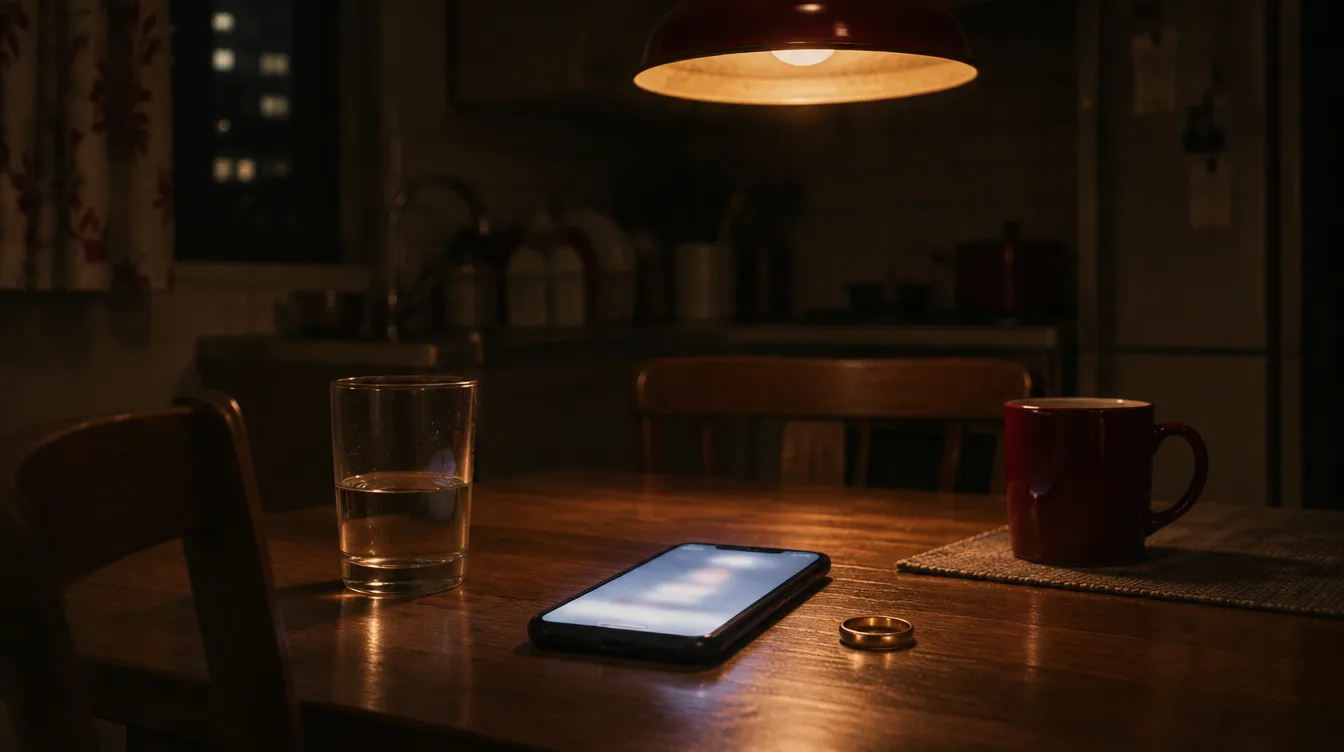
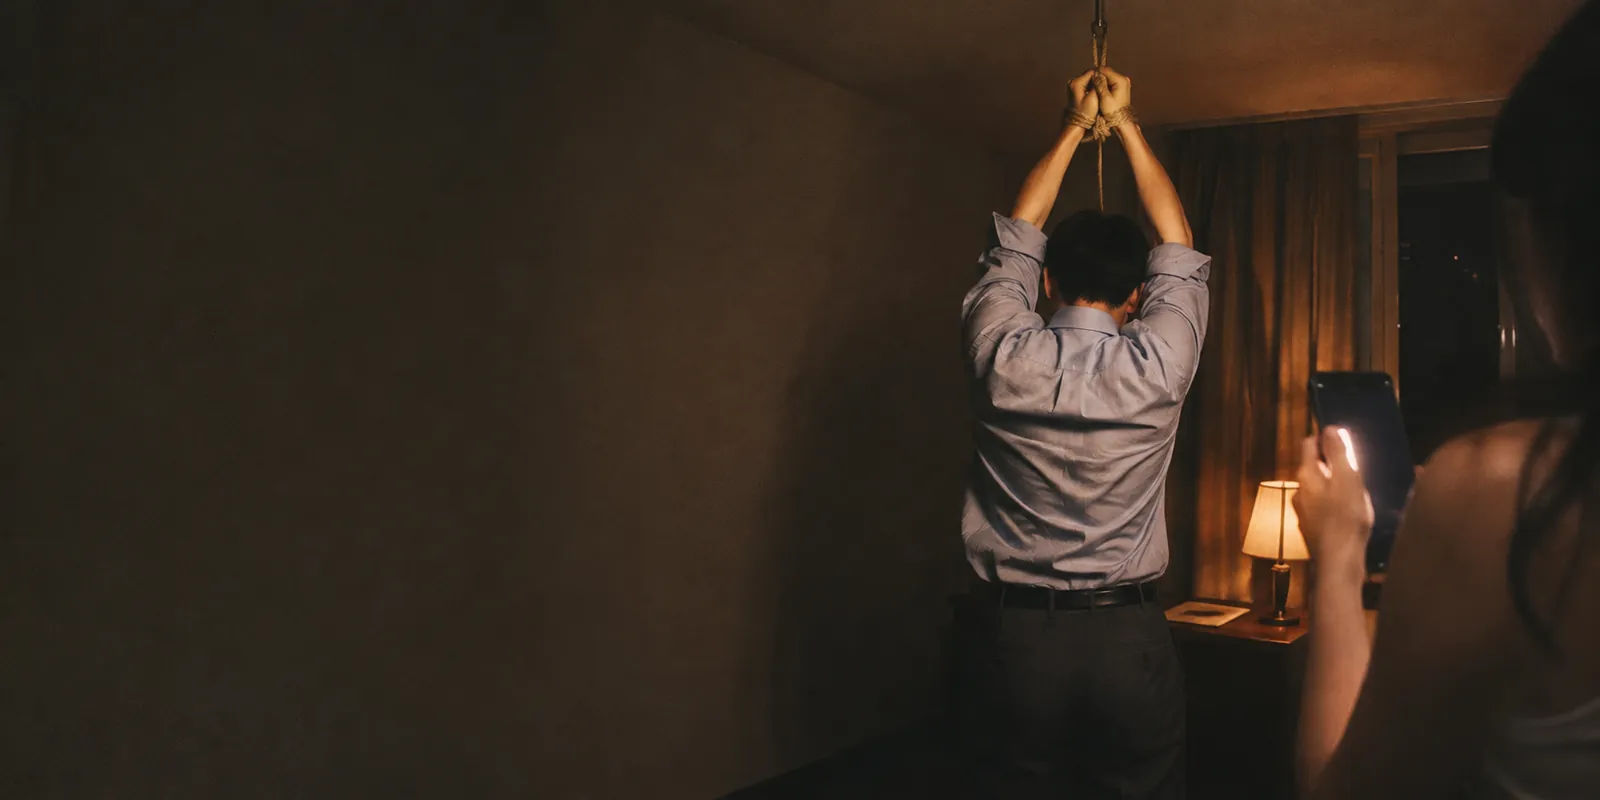
마지막 사용자 이미지 반영: 가로 키아트·공유 미리보기, 창밖 아침, 사망·탈출·냉랭한 결말 그림
Claude-Session: https://claude.ai/code/session_01NhCrPAAx57r2gVvWtmkJiC

diff --git a/web/index.html b/web/index.html
@@ -274,7 +274,7 @@
   @media (prefers-reduced-motion: reduce) { *, *::before, *::after { animation: none !important; transition: none !important; } }
 </style>
 <script type="importmap">
-{ "imports": { "three": "./lib/three/build/three.module.js", "three/addons/": "./lib/three/examples/jsm/", "./js/version.js": "./js/version.js?v=20261113-2224", "./js/rig.js": "./js/rig.js?v=20261113-2224", "./js/lipsync.js": "./js/lipsync.js?v=20261113-2224", "./js/husband.js": "./js/husband.js?v=20261113-2224", "./js/arms.js": "./js/arms.js?v=20261113-2224", "./js/room.js": "./js/room.js?v=20261113-2224", "./js/props.js": "./js/props.js?v=20261113-2224", "./js/audio.js": "./js/audio.js?v=20261113-2224", "./js/i18n.js": "./js/i18n.js?v=20261113-2224", "./js/game.js": "./js/game.js?v=20261113-2224", "./js/clips.js": "./js/clips.js?v=20261113-2224", "./js/main.js": "./js/main.js?v=20261113-2224" } }
+{ "imports": { "three": "./lib/three/build/three.module.js", "three/addons/": "./lib/three/examples/jsm/", "./js/version.js": "./js/version.js?v=20261113-2334", "./js/rig.js": "./js/rig.js?v=20261113-2334", "./js/lipsync.js": "./js/lipsync.js?v=20261113-2334", "./js/husband.js": "./js/husband.js?v=20261113-2334", "./js/arms.js": "./js/arms.js?v=20261113-2334", "./js/room.js": "./js/room.js?v=20261113-2334", "./js/props.js": "./js/props.js?v=20261113-2334", "./js/audio.js": "./js/audio.js?v=20261113-2334", "./js/i18n.js": "./js/i18n.js?v=20261113-2334", "./js/game.js": "./js/game.js?v=20261113-2334", "./js/clips.js": "./js/clips.js?v=20261113-2334", "./js/main.js": "./js/main.js?v=20261113-2334" } }
 </script>
 </head>
 <body>
@@ -313,6 +313,6 @@
   <div class="go"><button id="go" disabled>…</button><button id="resume" hidden></button></div>
   <p class="fiction" data-t="fiction"></p>
 </div></div>
-<script type="module" src="./js/main.js?v=20261113-2224"></script>
+<script type="module" src="./js/main.js?v=20261113-2334"></script>
 </body>
 </html>

diff --git a/web/js/room.js b/web/js/room.js
@@ -77,7 +77,7 @@ export function makeRoom(scene) {
   win.position.set(-1.05, 1.45, cz - D / 2 + 0.01); R.group.add(win); R.window = win; R.nightTex = nightTex;
   let nightPhoto = null, morningPhoto = null;
   new THREE.TextureLoader().load('./assets/night.webp', (t) => { t.colorSpace = THREE.SRGBColorSpace; const a = t.image.width / t.image.height, rx = Math.min(1, (1.3 / 1.25) / a); t.repeat.set(rx, 1); t.offset.set((1 - rx) / 2, 0); nightPhoto = t; if (!R.isMorning) { win.material.map = t; win.material.needsUpdate = true; } }, undefined, () => {});
-  new THREE.TextureLoader().load('./assets/morning.webp', (t) => { t.colorSpace = THREE.SRGBColorSpace; morningPhoto = t; }, undefined, () => {});
+  new THREE.TextureLoader().load('./assets/morning.webp', (t) => { t.colorSpace = THREE.SRGBColorSpace; const a = t.image.width / t.image.height, rx = Math.min(1, (1.3 / 1.25) / a); t.repeat.set(rx, 1); t.offset.set((1 - rx) / 2, 0); morningPhoto = t; }, undefined, () => {});
   const frameM = new THREE.MeshStandardMaterial({ color: 0xe8e4dc, roughness: 0.5 });
   for (const [w, h, x, y] of [[1.38, 0.05, 0, 0.64], [1.38, 0.05, 0, -0.64], [0.05, 1.3, -0.67, 0], [0.05, 1.3, 0.67, 0], [0.035, 1.25, 0, 0]]) {
     const f = new THREE.Mesh(new THREE.BoxGeometry(w, h, 0.05), frameM); f.position.set(-1.05 + x, 1.45 + y, cz - D / 2 + 0.025); R.group.add(f);

diff --git a/web/js/main.js b/web/js/main.js
@@ -390,7 +390,7 @@ async function verdictFlow(forced = false) {
   result(r);
 }
 // 결말 그림(사용자 제작 art/user/24~30). 없는 결말은 3D 장면 그대로
-const END_CARDS = { police: 'end_police', police_colleague: 'end_police_colleague', warm: 'end_warm', phone: 'end_phone', apart: 'end_apart' };
+const END_CARDS = { dead: 'end_dead', police: 'end_police', police_colleague: 'end_police_colleague', escaped: 'end_escaped', warm: 'end_warm', cold: 'end_cold', phone: 'end_phone', apart: 'end_apart' };
 function endCard(kind) {
   const el = $('endcard');
   if (!kind || !END_CARDS[kind]) { el.classList.remove('on'); return; }
@@ -403,7 +403,8 @@ async function endFlow(kind) {
   if (kind === 'escaped') { H.root.visible = false; room.setRopeVisible(false); AU.SFX.thud(); }
   const ls = lines(`end_${kind}`);
   for (let i = 0; i < ls.length; i++) {
-    if (kind === 'dead' && i === 1) AU.SFX.doorbell();
+    if (kind === 'dead' && i === 1) { AU.SFX.doorbell(); endCard(kind); }
+    if (kind === 'escaped' && i === 0) endCard(kind);
     if (kind === 'police' || kind === 'police_colleague') { if (i === 0) { AU.SFX.knock(); AU.SFX.siren(); endCard(kind); } }
     await show(kind === 'police' ? 'p' : 'n', ls[i], { hold: 2.6 });
   }

diff --git a/CREDITS.md b/CREDITS.md
@@ -6,8 +6,7 @@
   변환은 이 저장소의 `tools/build_human.py`(Blender 없이 numpy) → [glTF-Transform](https://gltf-transform.dev)(MIT)로 압축.
 - **three.js** r187 — MIT (`web/lib/three/LICENSE`).
 - **글꼴** — Nanum Myeongjo, EB Garamond (Google Fonts, OFL).
-- **사진 질감·키아트(Higgsfield)**: 가로 키아트(`keyart.webp`), 창밖 아침(`morning.webp`)은 Higgsfield `gpt_image_2_6` 으로 생성.
-- **사용자 제작 이미지(GPT Image)**: 세로 키아트(`keyart_tall.webp`), 벽지·바닥·커튼·밧줄·시계 문자판·창밖 밤(`wall/floor/curtain/rope/clock/night.webp`), 피부 모공 질감(`skin_pore.webp`), 폰 갤러리 사진(`ph_*.webp`), 결말 그림(`end_*.webp`), 종이 질감(`paper.webp`), 이혼 서류 양식(`form.webp`), 폰 잠금화면(`lock.webp`), 셔츠·바지 천(`fab_*.webp`), 아이콘(`favicon-48.png`·`apple-touch-icon.png`·`icon-512.png`)은 프로젝트 소유자가 만들어 제공. 남편 얼굴 수치는 소유자가 준 정면·옆모습 참고 이미지에 맞춰 조정했다(이미지 자체는 저장소에 넣지 않음).
+- **사용자 제작 이미지(GPT Image)**: 가로·세로 키아트(`keyart.webp`·`keyart_tall.webp`), 창밖 아침(`morning.webp`), 공유 미리보기(`og.png`, 키아트를 잘라 제목을 얹음), 벽지·바닥·커튼·밧줄·시계 문자판·창밖 밤(`wall/floor/curtain/rope/clock/night.webp`), 피부 모공 질감(`skin_pore.webp`), 폰 갤러리 사진(`ph_*.webp`), 결말 그림(`end_*.webp`), 종이 질감(`paper.webp`), 이혼 서류 양식(`form.webp`), 폰 잠금화면(`lock.webp`), 셔츠·바지 천(`fab_*.webp`), 아이콘(`favicon-48.png`·`apple-touch-icon.png`·`icon-512.png`)은 프로젝트 소유자가 만들어 제공. 남편 얼굴 수치는 소유자가 준 정면·옆모습 참고 이미지에 맞춰 조정했다(이미지 자체는 저장소에 넣지 않음).
 - 파일이 없으면 코드로 그린 질감으로 돌아간다.
 - 방 구조·소품·소리·음악은 코드로 만들었다.
 - 이 게임은 [yoshitakeapp.com 의 「浮気した夫に全部吐かせる」](https://yoshitakeapp.com/games/uwaki-jinmon/)의 공개된 구조를 분석해 **처음부터 새로 쓴 클린룸 구현**이다. 원작의 코드·대본·음성·모델·이미지는 포함하지 않는다.
